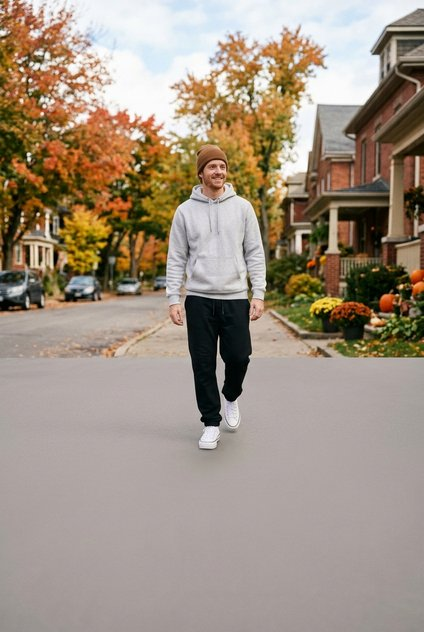
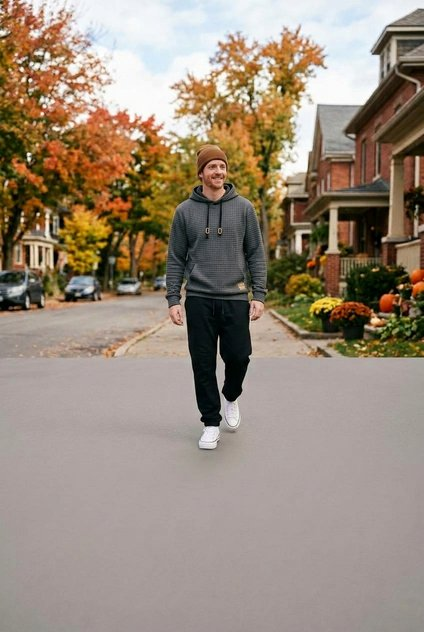
Oct 19 hoodie swap and beanie re-check
- budget-outfit-oct-19: new Gemini photo (dark grey textured hoodie),
  rebuilt -424 JPEG/WebP; hoodie card now links the nov-23-2 hooded
  sweatshirt (CA$23.34); og/twitter copy total CA$79.58. The old hoodie/
  page and record stay.
- Beanie (goods_id 6903927, re-checked Nov 21): 4.00 -> 4.50, seller shein.
  Product page, schema, analytics value and cards updated; streetwear-outfit-oct-12
  total 115.33 -> 115.83, business-casual-oct-12-4 122.07 -> 122.57.
- Oct 19 pin rebuilt with --no-sale-line: SHOP THE LOOK / UNDER CA$80!
  Oct 12 pins unchanged.

Changed region(s): [[0.3679, 0.2706, 0.6439, 0.5111], [0.0, 0.0, 0.0307, 0.0301]]

diff --git a/outfits/budget/budget-outfit-oct-19/index.html b/outfits/budget/budget-outfit-oct-19/index.html
@@ -159,14 +159,14 @@
 <meta name="viewport" content="width=device-width, initial-scale=1.0">
 <title>Budget Outfit • ThatFootball12</title>
 <meta property="og:title" content="Budget Outfit - October 19th, 2026" />
-<meta property="og:description" content="Light grey thermal lined hoodie, black loose fit sweatpants, white thick sole canvas sneakers, and a brown knit cuff beanie — full budget look for $54.63. This image was created with AI and features AI-generated people." />
+<meta property="og:description" content="Dark grey textured hoodie, black loose fit sweatpants, white thick sole canvas sneakers, and a brown knit cuff beanie — full budget look for CA$79.58. This image was created with AI and features AI-generated people." />
 <meta property="og:image" content="https://thatfootball12.github.io/thatfootball12-links/outfits/budget/budget-outfit-oct-19/outfit-preview.jpg" />
 <meta property="og:url" content="https://thatfootball12.github.io/thatfootball12-links/outfits/budget/budget-outfit-oct-19/" />
 <meta property="og:type" content="article" />
 <meta property="og:site_name" content="ThatFootball12" />
 <meta name="twitter:card" content="summary_large_image" />
 <meta name="twitter:title" content="Budget Outfit - October 19th, 2026" />
-<meta name="twitter:description" content="Light grey thermal lined hoodie, black loose fit sweatpants, white thick sole canvas sneakers, and a brown knit cuff beanie — full budget look for $54.63. This image was created with AI and features AI-generated people." />
+<meta name="twitter:description" content="Dark grey textured hoodie, black loose fit sweatpants, white thick sole canvas sneakers, and a brown knit cuff beanie — full budget look for CA$79.58. This image was created with AI and features AI-generated people." />
 <meta name="twitter:image" content="https://thatfootball12.github.io/thatfootball12-links/outfits/budget/budget-outfit-oct-19/outfit-preview.jpg" />
 <!-- fonts:start -->
 <link rel="preload" href="../../../assets/fonts/web/anton-400-latin.woff2" as="font" type="font/woff2" crossorigin>
@@ -212,9 +212,9 @@
     <h1>THAT<span>FOOTBALL</span>12</h1>
     <div class="tagline">October 19th, 2026</div>
   </header>
-  <a class="card" href="hoodie/">
-    <div class="card-title">Light Grey Thermal Lined Hoodie</div>
-    <div class="card-price">CA$14.38</div>
+  <a class="card" href="../../../videos/trending-products/trending-products-nov-23-2/hooded-sweatshirt/">
+    <div class="card-title">Dark Grey Textured Hooded Sweatshirt</div>
+    <div class="card-price">CA$23.34</div>
   </a>
   <a class="card" href="sweatpants/">
     <div class="card-title">Black Loose Fit Sweatpants</div>
@@ -226,7 +226,7 @@
   </a>
   <a class="card" href="../../streetwear/streetwear-outfit-oct-12/beanie/">
     <div class="card-title">Brown Knit Cuff Beanie</div>
-    <div class="card-price">CA$4.00</div>
+    <div class="card-price">CA$4.50</div>
   </a>
 </div>
 <!-- site-footer:start -->

diff --git a/outfits/business-casual/business-casual-oct-12-4/index.html b/outfits/business-casual/business-casual-oct-12-4/index.html
@@ -159,14 +159,14 @@
 <meta name="viewport" content="width=device-width, initial-scale=1.0">
 <title>Business Casual Outfit • ThatFootball12</title>
 <meta property="og:title" content="Business Casual Outfit - October 12th, 2026" />
-<meta property="og:description" content="Cream ribbed knit polo, beige tapered pants, burgundy PU leather jacket, formal leather dress shoes, and a brown knit cuff beanie — full business casual look for $122.07. This image was created with AI and features AI-generated people." />
+<meta property="og:description" content="Cream ribbed knit polo, beige tapered pants, burgundy PU leather jacket, formal leather dress shoes, and a brown knit cuff beanie — full business casual look for $122.57. This image was created with AI and features AI-generated people." />
 <meta property="og:image" content="https://thatfootball12.github.io/thatfootball12-links/outfits/business-casual/business-casual-oct-12-4/outfit-preview.jpg" />
 <meta property="og:url" content="https://thatfootball12.github.io/thatfootball12-links/outfits/business-casual/business-casual-oct-12-4/" />
 <meta property="og:type" content="article" />
 <meta property="og:site_name" content="ThatFootball12" />
 <meta name="twitter:card" content="summary_large_image" />
 <meta name="twitter:title" content="Business Casual Outfit - October 12th, 2026" />
-<meta name="twitter:description" content="Cream ribbed knit polo, beige tapered pants, burgundy PU leather jacket, formal leather dress shoes, and a brown knit cuff beanie — full business casual look for $122.07. This image was created with AI and features AI-generated people." />
+<meta name="twitter:description" content="Cream ribbed knit polo, beige tapered pants, burgundy PU leather jacket, formal leather dress shoes, and a brown knit cuff beanie — full business casual look for $122.57. This image was created with AI and features AI-generated people." />
 <meta name="twitter:image" content="https://thatfootball12.github.io/thatfootball12-links/outfits/business-casual/business-casual-oct-12-4/outfit-preview.jpg" />
 <!-- fonts:start -->
 <link rel="preload" href="../../../assets/fonts/web/anton-400-latin.woff2" as="font" type="font/woff2" crossorigin>
@@ -230,7 +230,7 @@
   </a>
   <a class="card" href="../../streetwear/streetwear-outfit-oct-12/beanie/">
     <div class="card-title">Brown Knit Cuff Beanie</div>
-    <div class="card-price">CA$4.00</div>
+    <div class="card-price">CA$4.50</div>
   </a>
 </div>
 <!-- site-footer:start -->

diff --git a/outfits/streetwear/streetwear-outfit-oct-12/index.html b/outfits/streetwear/streetwear-outfit-oct-12/index.html
@@ -159,14 +159,14 @@
 <meta name="viewport" content="width=device-width, initial-scale=1.0">
 <title>Streetwear Outfit • ThatFootball12</title>
 <meta property="og:title" content="Streetwear Outfit - October 12th, 2026" />
-<meta property="og:description" content="Black plaid patch pocket shirt, black retro loose fit jeans, black plush lined snow boots, and a brown knit cuff beanie — full streetwear look for $115.33. This image was created with AI and features AI-generated people." />
+<meta property="og:description" content="Black plaid patch pocket shirt, black retro loose fit jeans, black plush lined snow boots, and a brown knit cuff beanie — full streetwear look for $115.83. This image was created with AI and features AI-generated people." />
 <meta property="og:image" content="https://thatfootball12.github.io/thatfootball12-links/outfits/streetwear/streetwear-outfit-oct-12/outfit-preview.jpg" />
 <meta property="og:url" content="https://thatfootball12.github.io/thatfootball12-links/outfits/streetwear/streetwear-outfit-oct-12/" />
 <meta property="og:type" content="article" />
 <meta property="og:site_name" content="ThatFootball12" />
 <meta name="twitter:card" content="summary_large_image" />
 <meta name="twitter:title" content="Streetwear Outfit - October 12th, 2026" />
-<meta name="twitter:description" content="Black plaid patch pocket shirt, black retro loose fit jeans, black plush lined snow boots, and a brown knit cuff beanie — full streetwear look for $115.33. This image was created with AI and features AI-generated people." />
+<meta name="twitter:description" content="Black plaid patch pocket shirt, black retro loose fit jeans, black plush lined snow boots, and a brown knit cuff beanie — full streetwear look for $115.83. This image was created with AI and features AI-generated people." />
 <meta name="twitter:image" content="https://thatfootball12.github.io/thatfootball12-links/outfits/streetwear/streetwear-outfit-oct-12/outfit-preview.jpg" />
 <!-- fonts:start -->
 <link rel="preload" href="../../../assets/fonts/web/anton-400-latin.woff2" as="font" type="font/woff2" crossorigin>
@@ -226,7 +226,7 @@
   </a>
   <a class="card" href="beanie/">
     <div class="card-title">Brown Knit Cuff Beanie</div>
-    <div class="card-price">CA$4.00</div>
+    <div class="card-price">CA$4.50</div>
   </a>
 </div>
 <!-- site-footer:start -->

diff --git a/outfits/streetwear/streetwear-outfit-oct-12/beanie/index.html b/outfits/streetwear/streetwear-outfit-oct-12/beanie/index.html
@@ -145,7 +145,7 @@
 </style>
 <script>
 (function () {
-  var P = {"retailer": "SHEIN", "product_id": "streetwear/streetwear-outfit-oct-12/beanie", "product_name": "Men Knit Cuff Beanie", "value": 4.0, "currency": "CAD"}, C = null, SEL = "a.shop";
+  var P = {"retailer": "SHEIN", "product_id": "streetwear/streetwear-outfit-oct-12/beanie", "product_name": "Men Knit Cuff Beanie", "value": 4.5, "currency": "CAD"}, C = null, SEL = "a.shop";
   var SKIP = /(^|\.)(tiktok\.com|instagram\.com|pin\.it|pinterest\.[a-z.]+)$/;
   function retailer(host) {
     if (/(^|\.)amazon\.|(^|\.)amzn\.to$/.test(host)) return 'Amazon';
@@ -196,9 +196,9 @@
 <meta property="og:url" content="https://thatfootball12.github.io/thatfootball12-links/outfits/streetwear/streetwear-outfit-oct-12/beanie/" />
 <meta property="og:type" content="product" />
 <meta property="og:site_name" content="ThatFootball12" />
-<meta property="product:price:amount" content="4.00" />
+<meta property="product:price:amount" content="4.50" />
 <meta property="product:price:currency" content="CAD" />
-<meta property="og:price:amount" content="4.00" />
+<meta property="og:price:amount" content="4.50" />
 <meta property="og:price:currency" content="CAD" />
 <meta property="og:availability" content="instock" />
 <meta name="twitter:card" content="summary_large_image" />
@@ -246,7 +246,7 @@
   "url": "https://thatfootball12.github.io/thatfootball12-links/outfits/streetwear/streetwear-outfit-oct-12/beanie/",
   "offers": {
     "@type": "Offer",
-    "price": "4.00",
+    "price": "4.50",
     "priceCurrency": "CAD",
     "availability": "https://schema.org/InStock",
     "url": "https://onelink.shein.com/56/64orbpv4xg5p?ismg_ol=LghylgOsSQZ_01_KOC-C"
@@ -259,7 +259,7 @@
 <div class="wrap">
   <img src="beanie.jpg" alt="Brown Knit Cuff Beanie" width="1340" height="1785" loading="eager" decoding="async">
   <h1>Men Knit Cuff Beanie</h1>
-  <div class="price">CA$4.00</div>
+  <div class="price">CA$4.50</div>
   <div class="currency-note">Prices shown in CAD</div>
   <p>Brown ribbed cuff beanie — an easy fall finish.</p>
   <a class="shop" href="https://onelink.shein.com/56/64orbpv4xg5p?ismg_ol=LghylgOsSQZ_01_KOC-C" target="_blank" rel="noopener">Shop Now</a>
